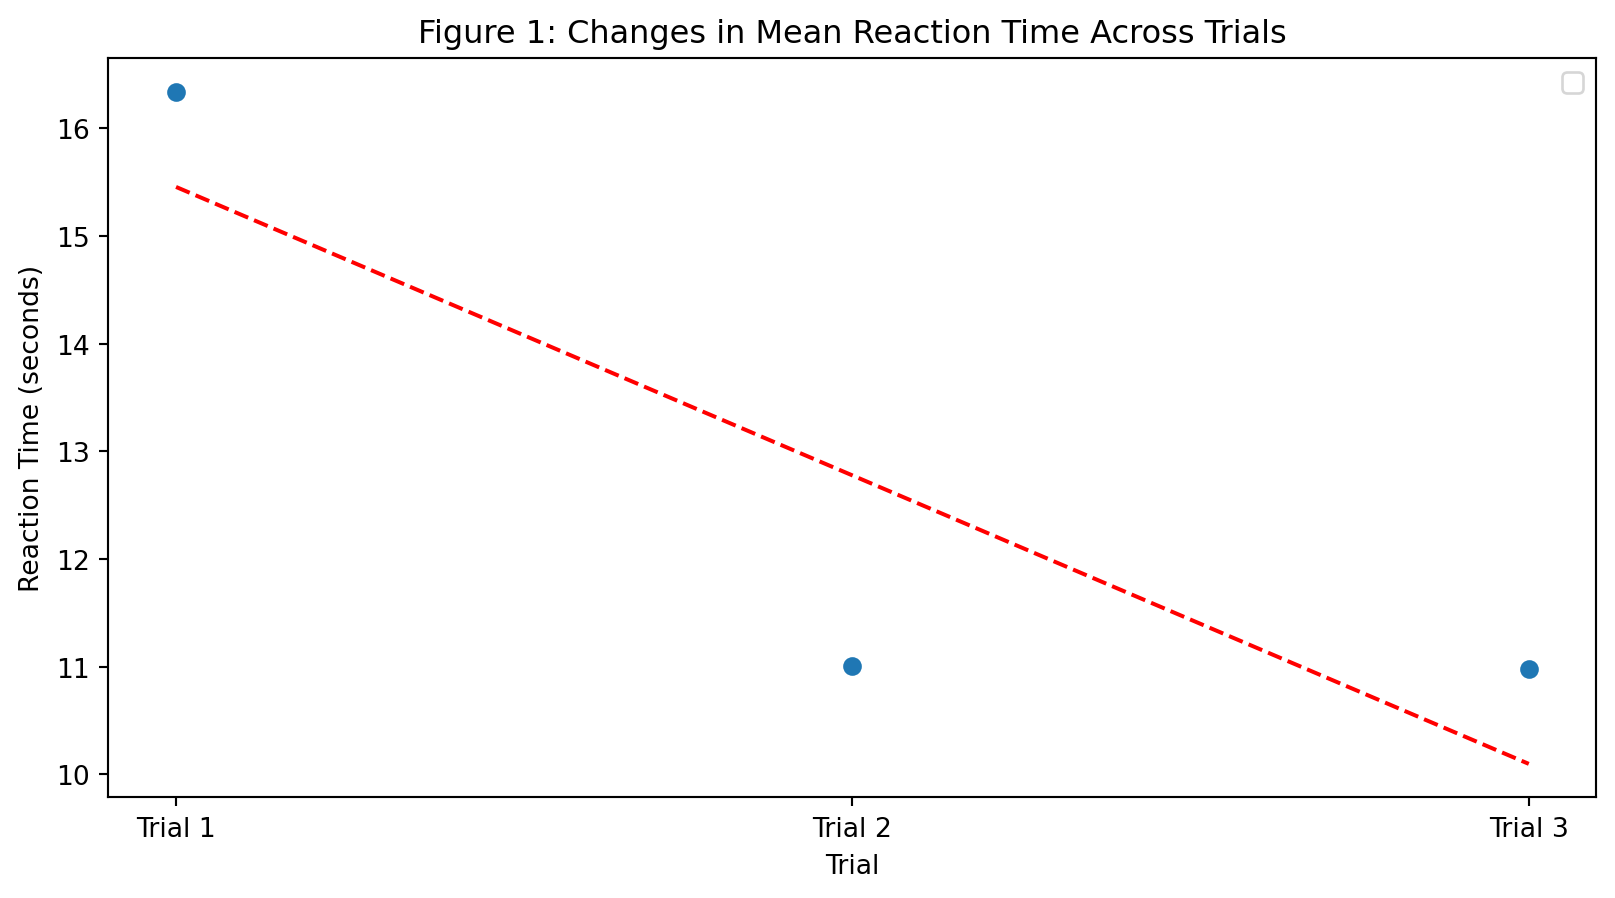
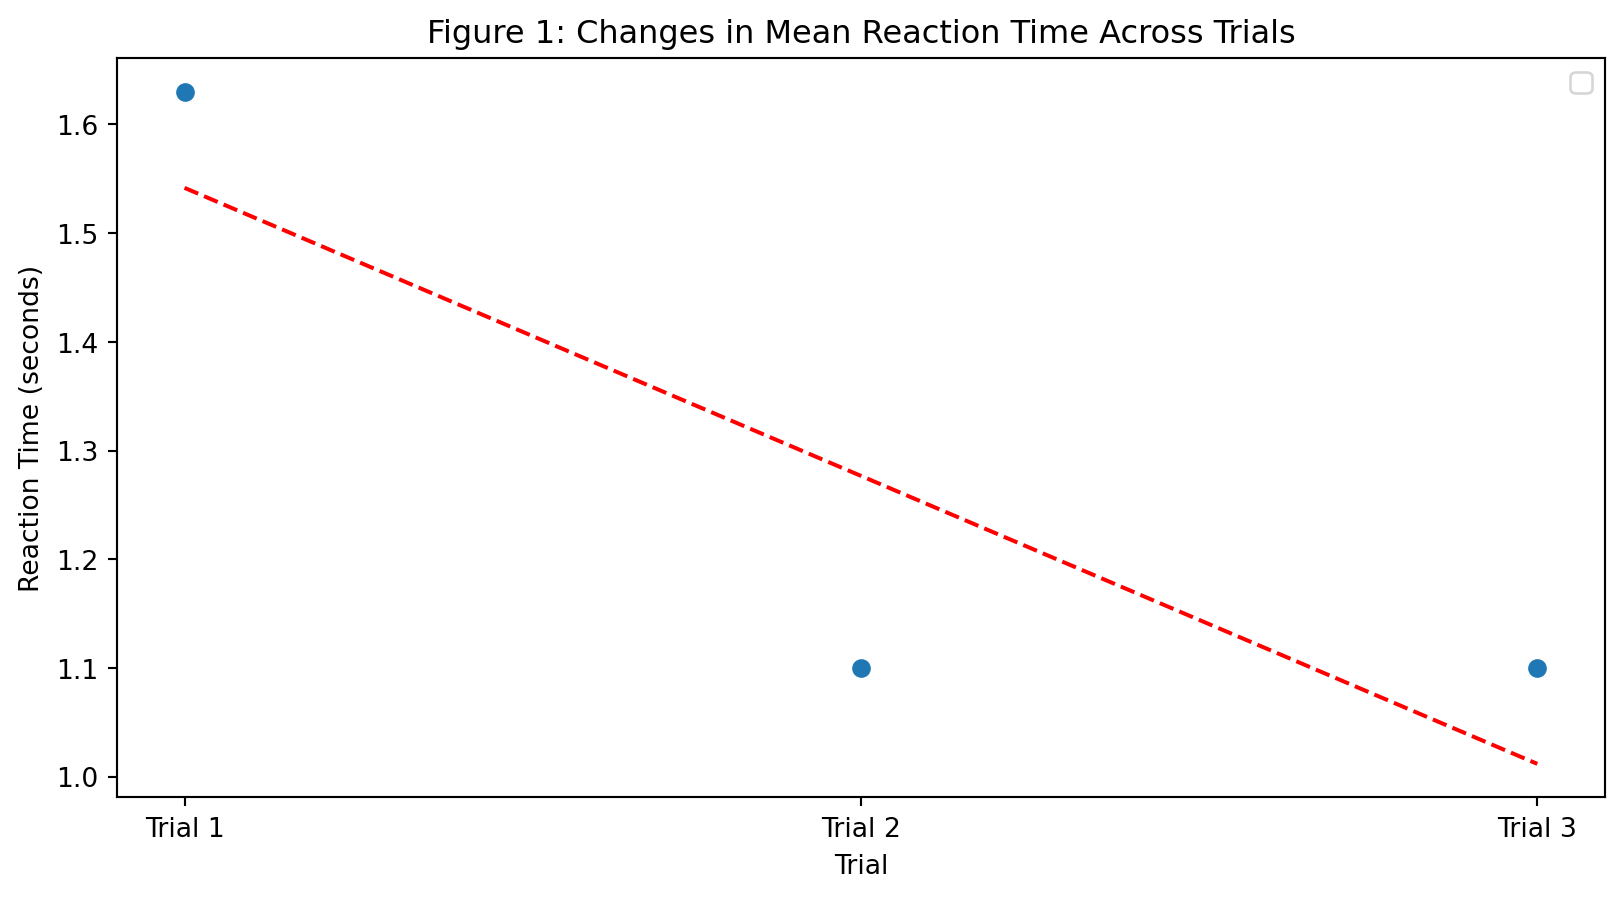
final presentation sobbing

diff --git a/stroop_presentation.html b/stroop_presentation.html
@@ -193,7 +193,7 @@
   <div class="reveal">
     <div class="slides">
 
-<section id="title-slide" class="quarto-title-block center">
+<section id="title-slide" data-background-image="/images/Screenshot 2026-03-30 231455.png" class="quarto-title-block center">
   <h1 class="title">A Stroop Task Study Replication</h1>
 
 <div class="quarto-title-authors">
@@ -206,11 +206,11 @@ Christina Fan, Alexia Nijgorodov, Daniella Cisorio, Diya Renjan
 
 </section>
 <section>
-<section id="introduction" class="title-slide slide level1 center">
+<section id="introduction" class="title-slide slide level1 center" data-background-image="images/Screenshot 2026-03-30 231455.png">
 <h1>Introduction</h1>
 
 </section>
-<section id="background1-what-is-the-stroop-effect" class="slide level2">
+<section id="background1-what-is-the-stroop-effect" class="slide level2" data-background-image="images/Screenshot 2026-03-30 231455.png">
 <h2>Background(1): What is the Stroop Effect?</h2>
 <p><br></p>
 <ul>
@@ -234,7 +234,7 @@ Christina Fan, Alexia Nijgorodov, Daniella Cisorio, Diya Renjan
 <li>Measures reaction time and accuracy as indicators of cognitive interference</li>
 </ul>
 </section>
-<section id="background3-key-findings" class="slide level2">
+<section id="background3-key-findings" class="slide level2" data-background-image="images/Screenshot 2026-03-30 231455.png">
 <h2>Background(3): Key Findings</h2>
 <p><br> Stroop (1935) found that participants were slower and less accurate when naming colors on incongruent trials compared to congruent ones</p>
 <p><br></p>
@@ -261,7 +261,7 @@ Christina Fan, Alexia Nijgorodov, Daniella Cisorio, Diya Renjan
 </div></div>
 </section></section>
 <section>
-<section id="methods" class="title-slide slide level1 center">
+<section id="methods" class="title-slide slide level1 center" data-background-image="images/Screenshot 2026-03-30 231455.png">
 <h1>Methods</h1>
 
 </section>
@@ -274,7 +274,7 @@ Christina Fan, Alexia Nijgorodov, Daniella Cisorio, Diya Renjan
 <li>Hypothesis: Participants will show slower reaction times and lower accuracy on incongruent trials compared to congruent trials</li>
 </ul>
 </section>
-<section id="making-the-task---an-important-feature" class="slide level2">
+<section id="making-the-task---an-important-feature" class="slide level2" data-background-image="images/Screenshot 2026-03-30 231455.png">
 <h2>Making the Task - An Important Feature</h2>
 <ul>
 <li>Being able to store and save your data to a platform is important for organization, analysis, collaboration</li>
@@ -317,36 +317,37 @@ Christina Fan, Alexia Nijgorodov, Daniella Cisorio, Diya Renjan
 <span id="cb1-35"><a href=""></a>        })</span></code></pre></div><button title="Copy to Clipboard" class="code-copy-button"><i class="bi"></i></button></div>
 </div>
 </section>
-<section id="making-the-task---coding" class="slide level2">
+<section id="making-the-task---coding" class="slide level2" data-background-image="images/Screenshot 2026-03-30 231455.png">
 <h2>Making The Task - Coding</h2>
 <p><br> <br> We used pygame to code this task, so we had lots of help from LLMs and the <a href="https://www.pygame.org/docs/" data-preview-link="true">Pygame Documentation Webpage</a></p>
 </section></section>
 <section>
-<section id="results" class="title-slide slide level1 center">
+<section id="results" class="title-slide slide level1 center" data-background-image="images/Screenshot 2026-03-30 231455.png">
 <h1>Results</h1>
 
 </section>
-<section id="descriptives---reaction-time" class="slide level2">
-<h2>Descriptives - Reaction Time</h2>
+<section id="descriptives---reaction-time-accuracy" class="slide level2 small-text">
+<h2>Descriptives - Reaction Time &amp; Accuracy</h2>
 <ul>
-<li>Mean reaction time is 12.78 seconds across all trials.</li>
+<li>Mean reaction time is 1.28 seconds.</li>
+<li>Mean accuracy rate is 86.4%.</li>
 </ul>
-<div id="27db7480" class="cell" data-execution_count="1">
+<div class="panel-tabset">
+<ul id="tabset-1" class="panel-tabset-tabby"><li><a data-tabby-default="" href="#tabset-1-1">RT</a></li><li><a href="#tabset-1-2">Accuracy</a></li></ul>
+<div class="tab-content">
+<div id="tabset-1-1">
+<div id="b90c35eb" class="cell" data-execution_count="1">
 <div class="cell-output cell-output-display">
 <div>
 <figure>
-<p><img data-src="stroop_presentation_files/figure-revealjs/cell-2-output-1.png" width="808" height="449"></p>
+<p><img data-src="stroop_presentation_files/figure-revealjs/cell-2-output-1.png" width="812" height="449"></p>
 </figure>
 </div>
 </div>
 </div>
-</section>
-<section id="descriptives---accuracy" class="slide level2">
-<h2>Descriptives - Accuracy</h2>
-<ul>
-<li>Mean accuracy rate is 86.4%.</li>
-</ul>
-<div id="42e8feef" class="cell" data-execution_count="2">
+</div>
+<div id="tabset-1-2">
+<div id="15689668" class="cell" data-execution_count="2">
 <div class="cell-output cell-output-display">
 <div>
 <figure>
@@ -355,21 +356,85 @@ Christina Fan, Alexia Nijgorodov, Daniella Cisorio, Diya Renjan
 </div>
 </div>
 </div>
+</div>
+</div>
+</div>
 </section>
-<section id="analysis" class="slide level2">
+<section id="descriptives---effects-of-congruency-on-rt-accuracy" class="slide level2 small-text">
+<h2>Descriptives - Effects of Congruency on RT &amp; Accuracy</h2>
+<div class="small-text">
+<ul>
+<li>Mean reaction time in incongruent trials is 1.28 seconds VS in congruent trials it’s 1.19 seconds</li>
+<li>Mean accuracy rate in incongruent trials is 81.3% VS in congruent trials it’s 92.0%</li>
+</ul>
+</div>
+<div class="panel-tabset">
+<ul id="tabset-2" class="panel-tabset-tabby"><li><a data-tabby-default="" href="#tabset-2-1">RT</a></li><li><a href="#tabset-2-2">Accuracy</a></li></ul>
+<div class="tab-content">
+<div id="tabset-2-1">
+<div id="cba14022" class="cell" data-execution_count="3">
+<div class="cell-output cell-output-display">
+<div>
+<figure>
+<p><img data-src="stroop_presentation_files/figure-revealjs/cell-4-output-1.png" width="950" height="470"></p>
+</figure>
+</div>
+</div>
+</div>
+</div>
+<div id="tabset-2-2">
+<div id="4e5826e6" class="cell" data-execution_count="4">
+<div class="cell-output cell-output-display">
+<div>
+<figure>
+<p><img data-src="stroop_presentation_files/figure-revealjs/cell-5-output-1.png" width="950" height="470"></p>
+</figure>
+</div>
+</div>
+</div>
+</div>
+</div>
+</div>
+</section>
+<section id="analysis" class="slide level2" data-background-image="images/Screenshot 2026-03-30 231455.png">
 <h2>Analysis</h2>
-<p>A 2-Way Repeated Measures ANOVA test was performed examining the main effects of trial and congruency on reaction time, in addition to their interaction.</p>
-<p><img data-src="images/stroop_with.jpeg" class="absolute fragment" style="width: 800px; height: 800px; "></p>
+<div class="small-text">
+<p>Two 2-Way Repeated Measures ANOVA tests were performed examining the main effects of trial and congruency on reaction time and accuracy, in addition to their interactions on both.</p>
+</div>
+<div class="columns">
+<div class="column" style="width:20%;">
+<ul>
+<li>Table 1</li>
+</ul>
+</div><div class="column" style="width:37%;">
+
+</div><div class="columns" width="20">
+<ul>
+<li>Table 2</li>
+</ul>
+</div>
+</div>
+<p><img data-src="images/stroop_with.jpeg" class="absolute" style="left: 30px; bottom: 5px; width: 450px; height: 420px; "> <img data-src="images/stroop_acc.jpeg" class="absolute" style="bottom: 20px; right: 80px; width: 400px; height: 400px; "></p>
 </section>
-<section id="discussion" class="slide level2">
+<section id="discussion" class="slide level2" data-background-image="images/Screenshot 2026-03-30 231455.png">
 <h2>Discussion</h2>
-<p>One more week until classes end - Alexia</p>
-<!-- References:
-MacLeod, C. M. (1991). Half a century of research on the Stroop effect: An integrative review. Psychological Bulletin, 109(2), 163–203. https://doi.org/10.1037/0033-2909.109.2.163
-
-Stroop, J. R. (1935). Studies of interference in serial verbal reactions. Journal of Experimental Psychology, 18(6), 643–662. https://doi.org/10.1037/h0054651 -->
-
+<ul>
+<li>No significant Stroop effect (p = 0.661) or interaction (p = 0.758)</li>
+<li>While speeds improved across trials (p = 0.056), outliers of 13s and 19s inflated the Mean Square Residual (1.023), masking the actual effect</li>
+<li>High accuracy (90%) and keyboard latency further confounded results</li>
+<li>Due to these factors and a small sample (n = 16), we fail to reject the null hypothesis</li>
+</ul>
+</section>
+<section id="references" class="slide level2" data-background-image="images/Screenshot 2026-03-30 231455.png">
+<h2>References</h2>
+<p>MacLeod, C. M. (1991). Half a century of research on the Stroop effect: An integrative review. Psychological Bulletin, 109(2), 163–203. <a href="https://doi.org/10.1037/0033-2909.109.2.163">https://doi.org/10.1037/0033-2909.109.2.163</a></p>
+<p><br></p>
+<p>Stroop, J. R. (1935). Studies of interference in serial verbal reactions. Journal of Experimental Psychology, 18(6), 643–662. <a href="https://doi.org/10.1037/h0054651">https://doi.org/10.1037/h0054651</a></p>
 </section></section>
+<section id="section" class="title-slide slide level1 center" data-background="#43464B" data-background-image="images/thankyou.jpeg">
+<h1></h1>
+
+</section>
     </div>
   <div class="quarto-auto-generated-content" style="display: none;">
 <div class="footer footer-default">
